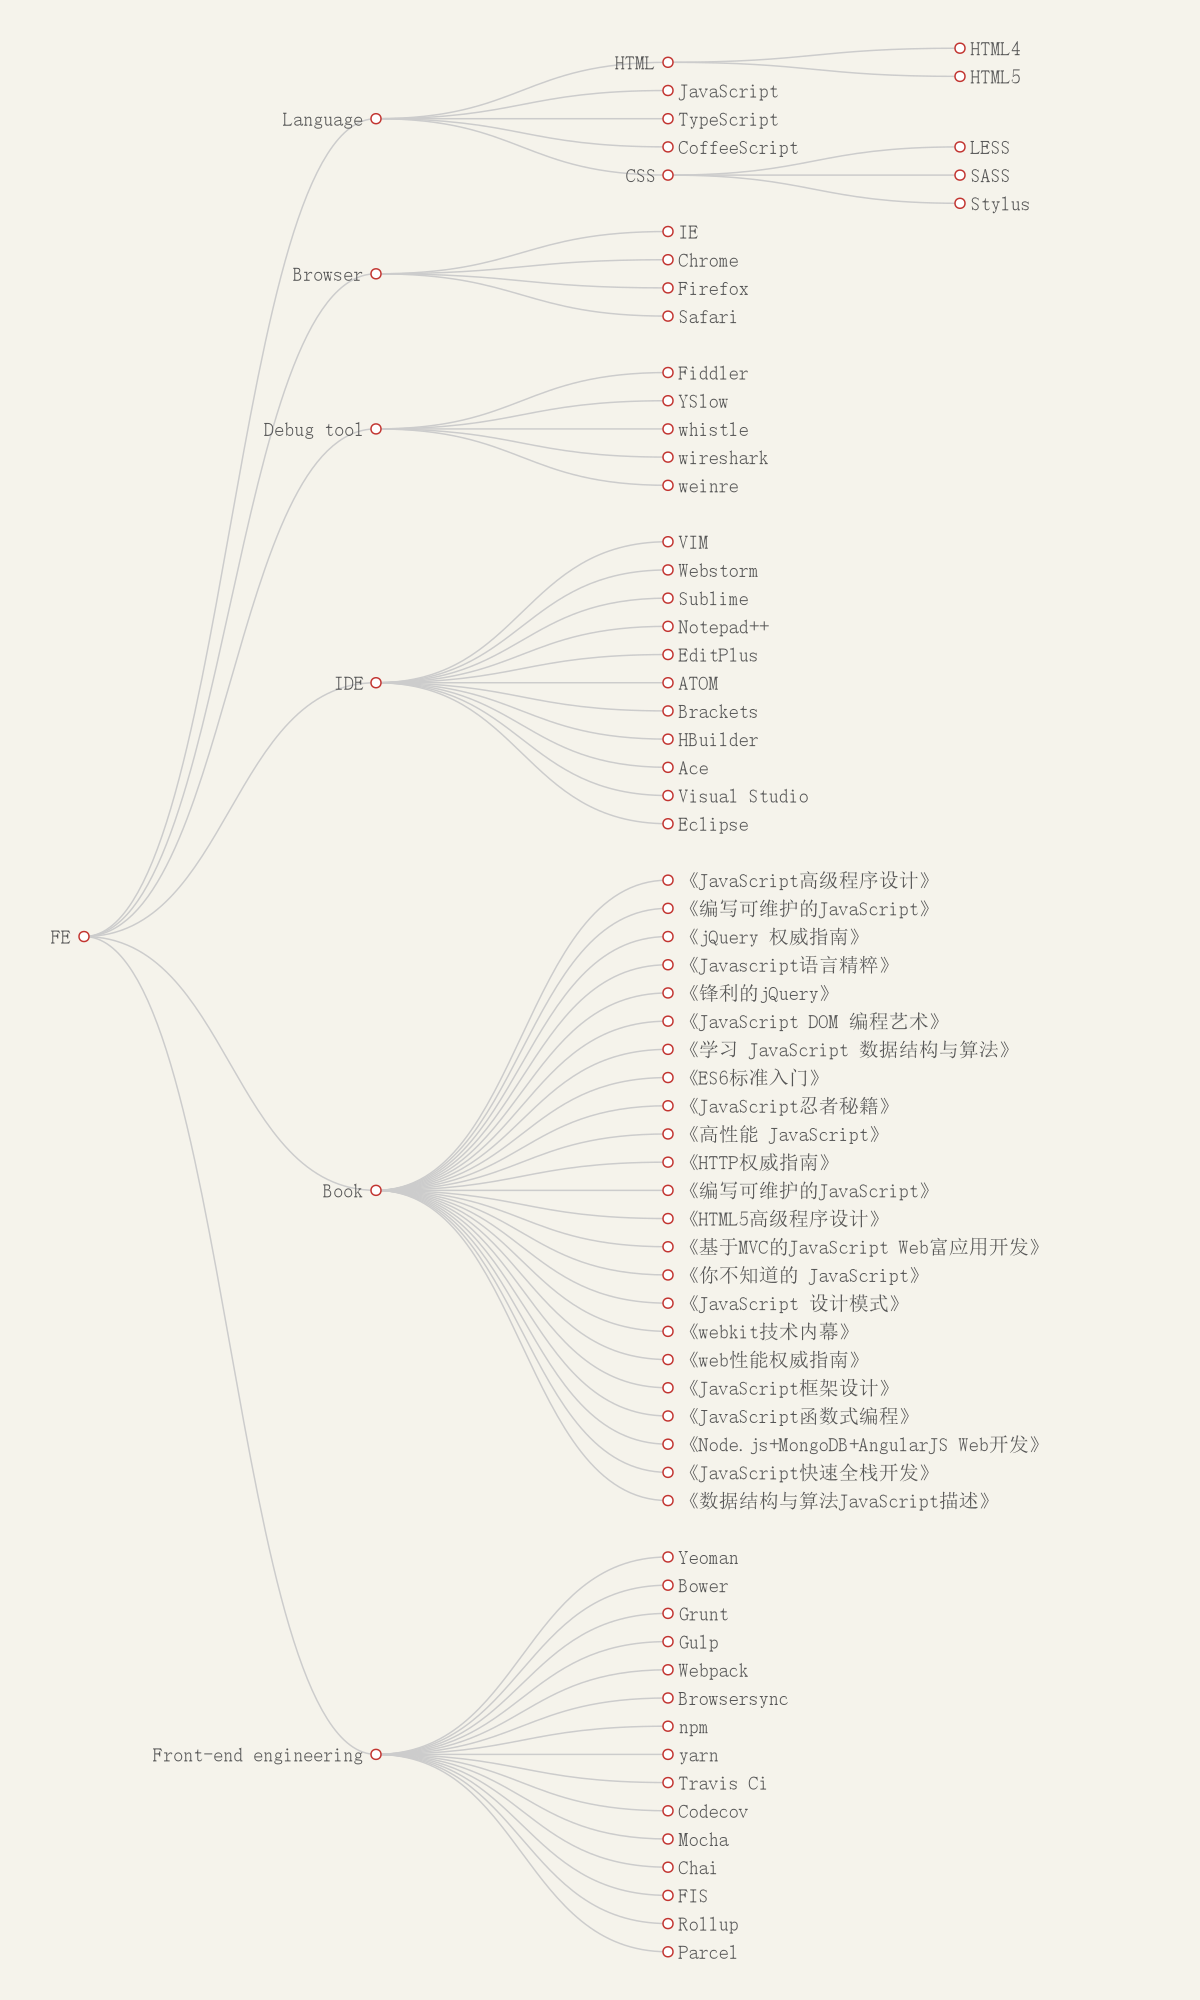
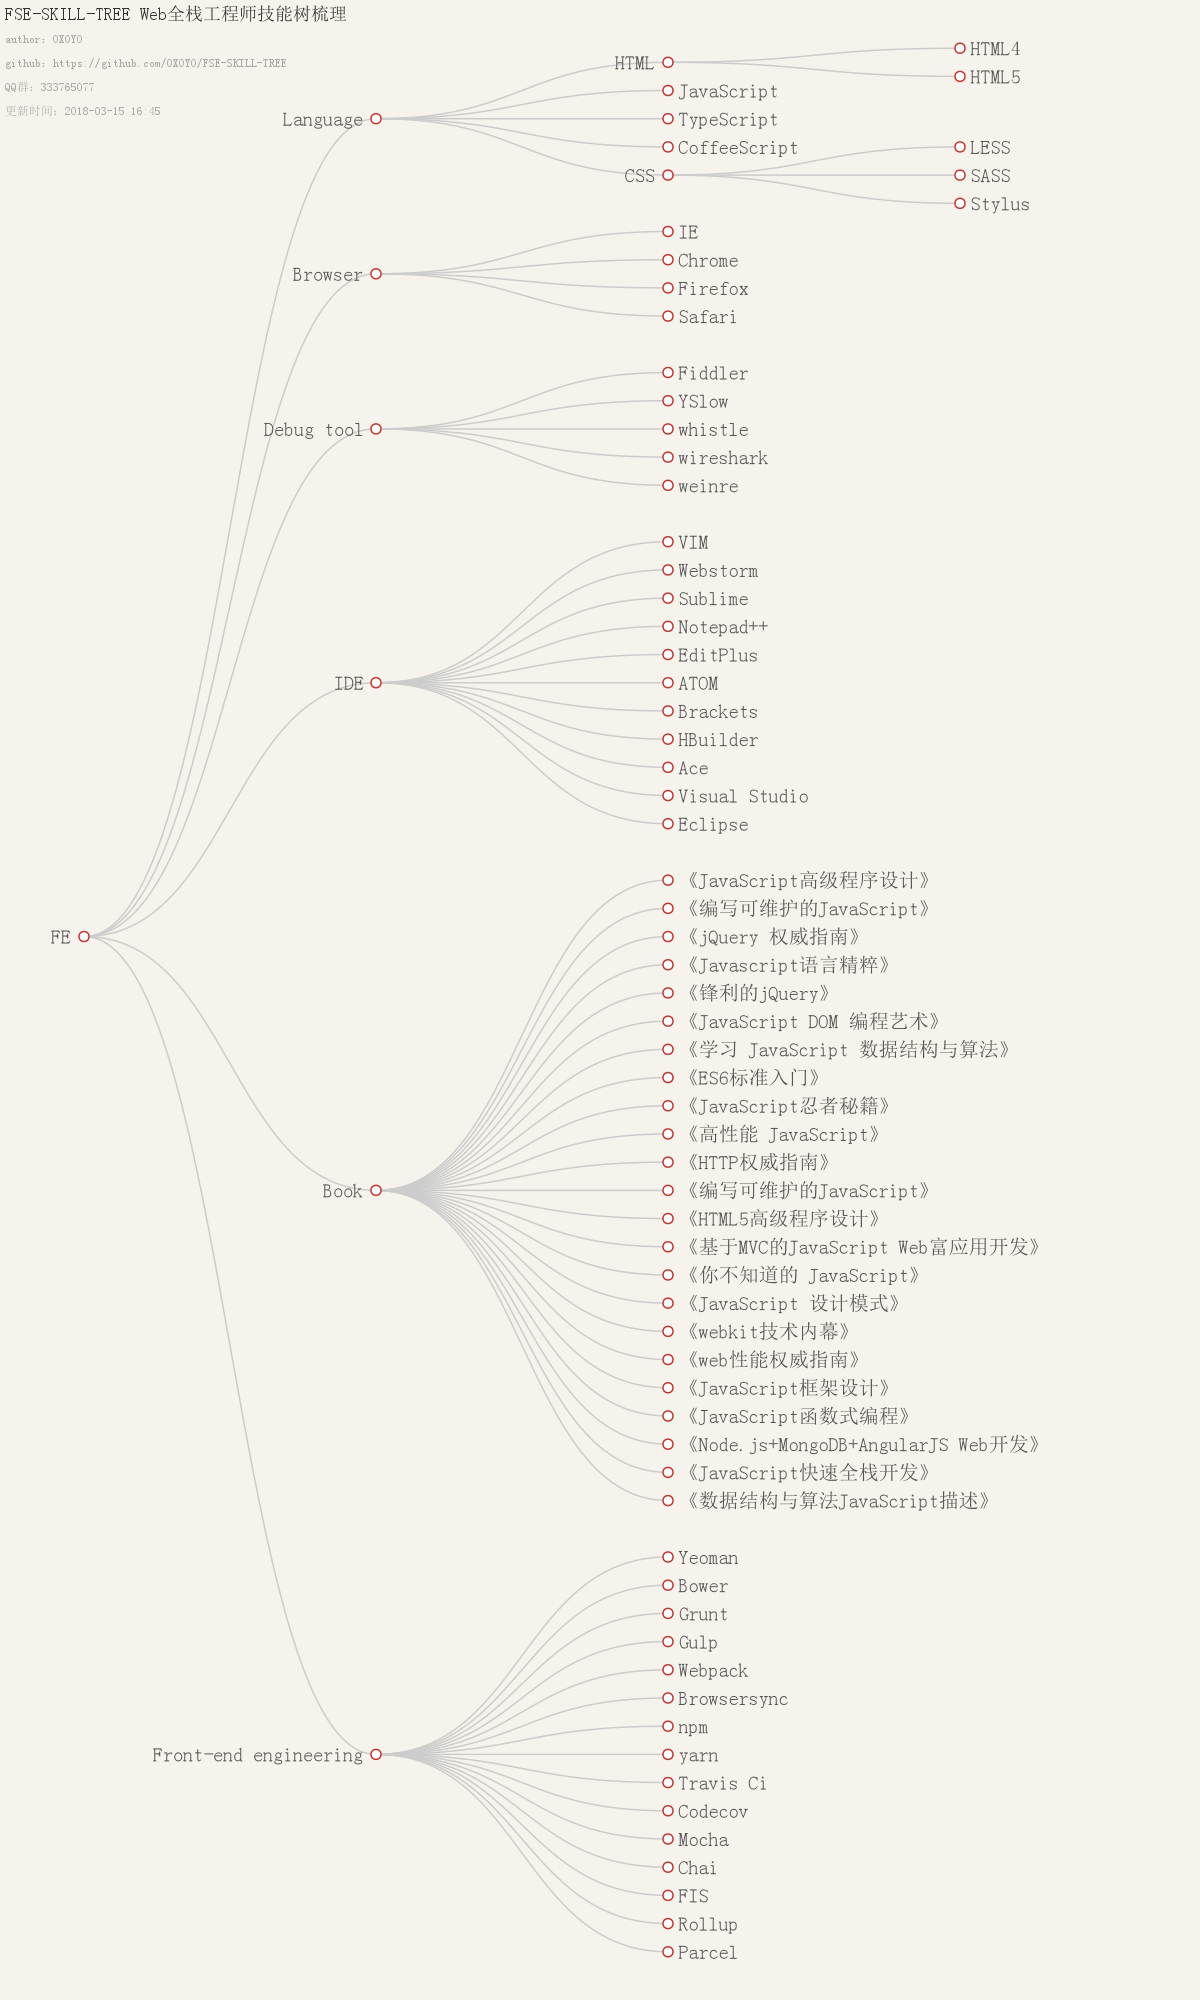
更新脑图标题信息。

diff --git a/utils/convert.js b/utils/convert.js
@@ -12,6 +12,8 @@ const config = require('./config')
 const dataSource = require(config.dataSource)
 // 当前时间
 const timeNow = (new Date()).getTime()
+// 换行符
+const lineBreak = '\n\n'
 // 日期格式化
 const formatDate = function (time, fmt = 'yyyy-MM-dd hh:mm') {
   // 10位时间戳格式化
@@ -71,7 +73,6 @@ const convert2MD = function () {
   }
   let fileContentArr = []
   let count = 1
-  let lineBreak = '\n\n'
   let getSize = function (count) {
     let arr = new Array(count > 6 ? 6 : count).fill('#')
     return arr.join('') + ' '
@@ -189,9 +190,25 @@ const convert2Img = function () {
     width: 1200,
     height: 2000,
     option: {
-      tooltip: {
-        trigger: 'item',
-        triggerOn: 'mousemove'
+      title: {
+        show: true,
+        text: [
+          config.projectInfo.name,
+          config.projectInfo.title
+        ].join(' '),
+        subtext: [
+          'author：',
+          config.authorInfo.name,
+          lineBreak,
+          'github：',
+          config.authorInfo.github,
+          lineBreak,
+          'QQ群：',
+          config.authorInfo.qqGroup,
+          lineBreak,
+          '更新时间：',
+          formatDate(timeNow)
+        ].join('')
       },
       series: [
         {

diff --git a/utils/config.js b/utils/config.js
@@ -14,5 +14,18 @@ module.exports = {
   // 生成的图片名称
   imgFileName: 'FSE.png',
   // 语言包
-  lang: {}
+  lang: {},
+  // 作者信息
+  authorInfo: {
+    name: 'OXOYO',
+    github: 'https://github.com/OXOYO/FSE-SKILL-TREE',
+    qqGroup: '333765077',
+    qqGroupTitle: 'Web全栈大神群',
+    qqGroupLink: 'https://jq.qq.com/?_wv=1027&k=53iWbrr'
+  },
+  // 项目信息
+  projectInfo: {
+    name: 'FSE-SKILL-TREE',
+    title: 'Web全栈工程师技能树梳理'
+  }
 }

diff --git a/README.md b/README.md
@@ -1,11 +1,11 @@
 # FSE-SKILL-TREE
-全栈工程师技能树梳理
+Web全栈工程师技能树梳理
 
 点击链接加入群【Web全栈大神群】：https://jq.qq.com/?_wv=1027&k=53iWbrr
 
 
 
-更新时间：2018-03-14 22:12
+更新时间：2018-03-15 16:45
 
 ![FSE](./utils/FSE.png)
 

diff --git a/utils/Header.md b/utils/Header.md
@@ -1,5 +1,5 @@
 # FSE-SKILL-TREE
-全栈工程师技能树梳理
+Web全栈工程师技能树梳理
 
 点击链接加入群【Web全栈大神群】：https://jq.qq.com/?_wv=1027&k=53iWbrr
 
